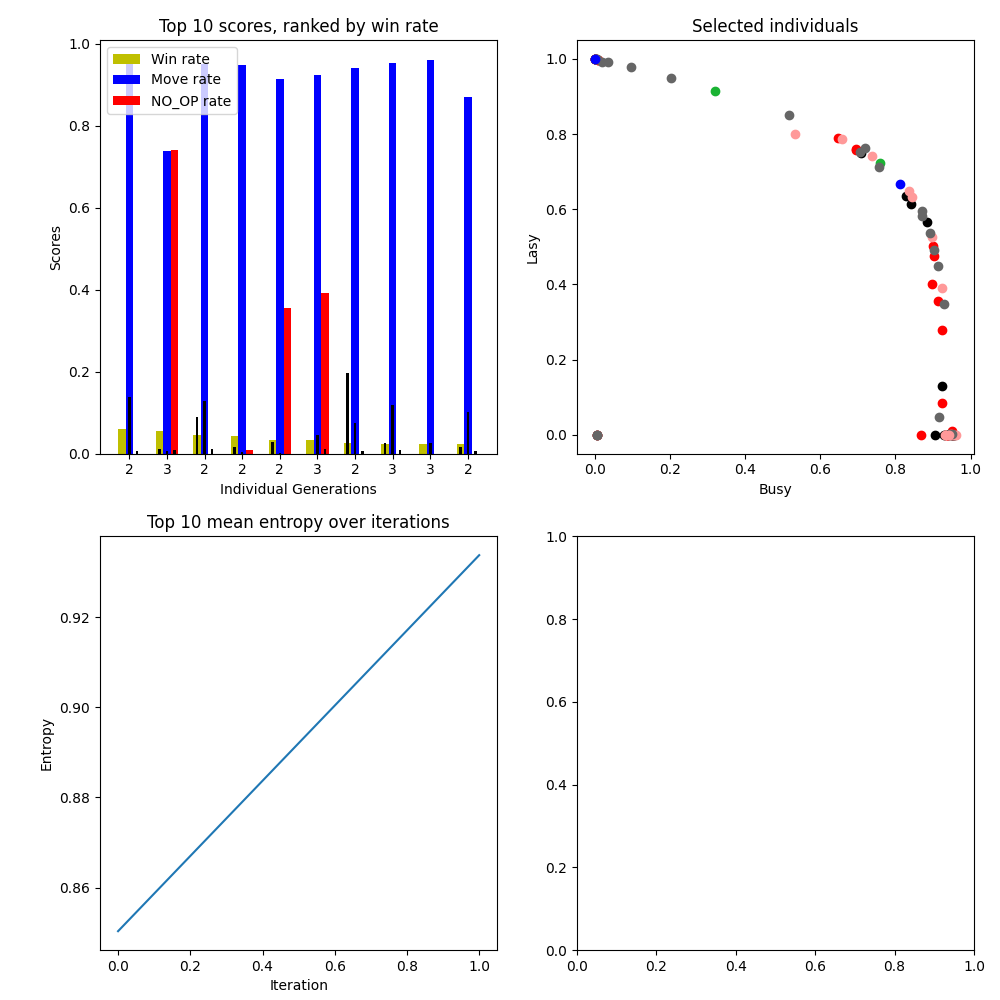
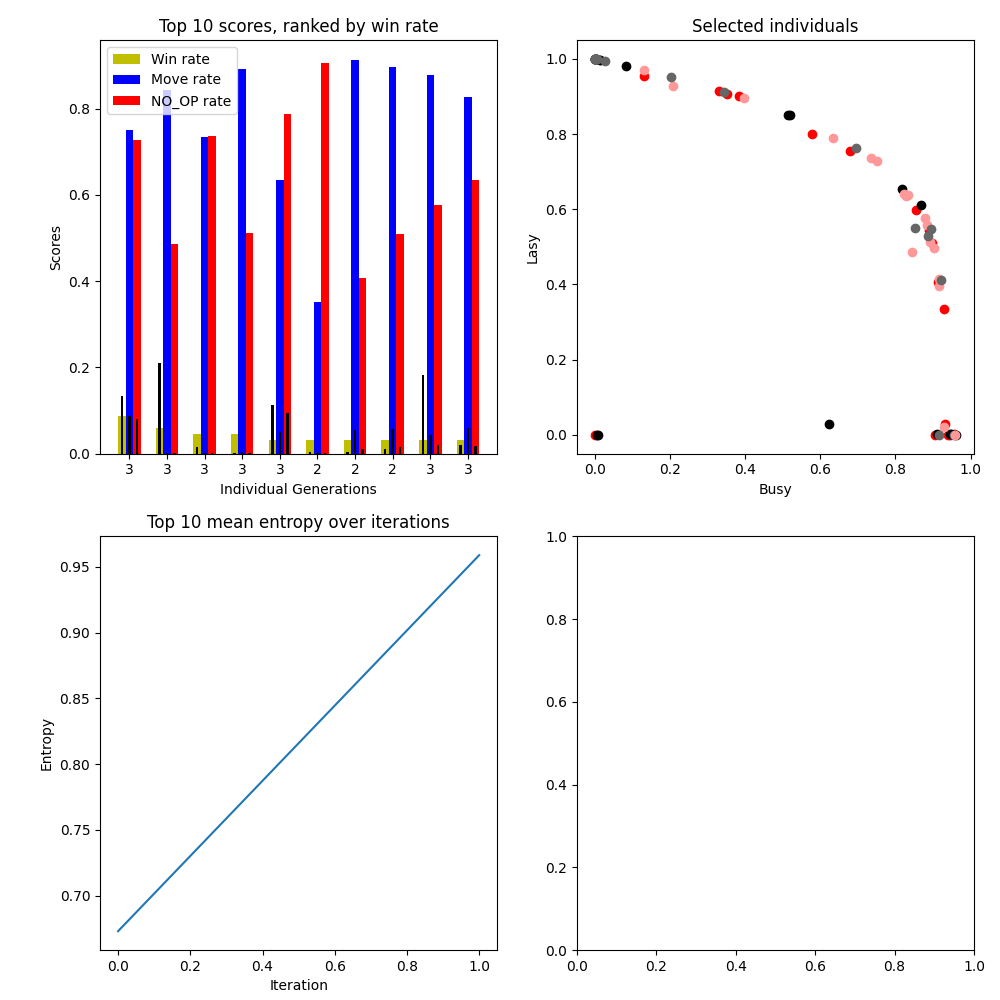
3-17

diff --git a/evolution_server.py b/evolution_server.py
@@ -134,7 +134,7 @@ class EvolutionServer:
                         if c + len(p1['pi'][j]) > point > c:
                             q1['pi'][j][:point-c] = p2['pi'][j][:point-c]
                             # q2['pi'][j][point-c:] = p2['pi'][j][point-c:]
-                        elif c < point :
+                        elif c < point:
                             q1['pi'][j] = p2['pi'][j]
                         else:
                             # q2['pi'][j] = p2['pi'][j]
@@ -224,9 +224,7 @@ class EvolutionServer:
         return r
 
     def play(self, player: Individual, max_frame, observation=None):
-        n_games = 0
-        last_score_delta = 0
-        actions = [0]*6
+        actions = [0]*self.action_dim
 
         if observation is None:
             observation = self.util.preprocess(self.env.reset())

diff --git a/population.py b/population.py
@@ -42,7 +42,7 @@ class Individual:
 class LightIndividual:
     def __init__(self, goal_dim, generation=1):
 
-        self.reward_weight = np.clip(np.random.lognormal(-1, 3, (goal_dim,)), 0, 10) / 10.0
+        self.reward_weight = log_uniform(0, 5, (goal_dim,), base=10) / 1e5
         self.reward_weight[0] *= 2
         self.behavior_stats = {}
         self.gen = generation
@@ -83,3 +83,7 @@ class Population:
                  'gen:%d\n' % self.individuals[i].gen + \
                  'reward weights :' + str(self.individuals[i].reward_weight) + "\n"
         return x
+
+
+def log_uniform(low=0, high=1, size=None, base=np.e):
+    return np.power(base, np.random.uniform(low, high, size))

diff --git a/plotting.py b/plotting.py
@@ -227,9 +227,11 @@ class PlotterV2:
         opti.set_xlabel('Busy')
         opti.set_title('Selected individuals')
 
-        entropy.plot(list(range(len(self.mean_ent_hist))), self.mean_ent_hist)
+        ticks = list(range(len(self.mean_ent_hist)))
+        entropy.plot(ticks, self.mean_ent_hist)
         entropy.set_ylabel('Entropy')
         entropy.set_xlabel('Iteration')
+        entropy.set_yticks(ticks)
         entropy.set_title('Top 10 mean entropy over iterations')
 
         fig.subplots_adjust(bottom=0.05, left=0.1, top=0.96, hspace=0.2, wspace=0.2)
